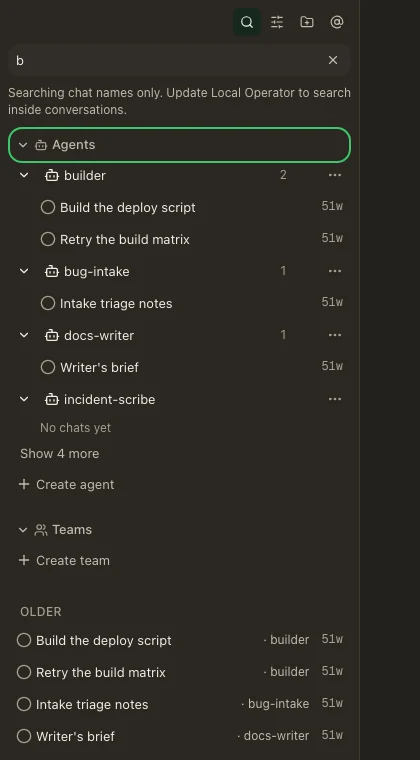
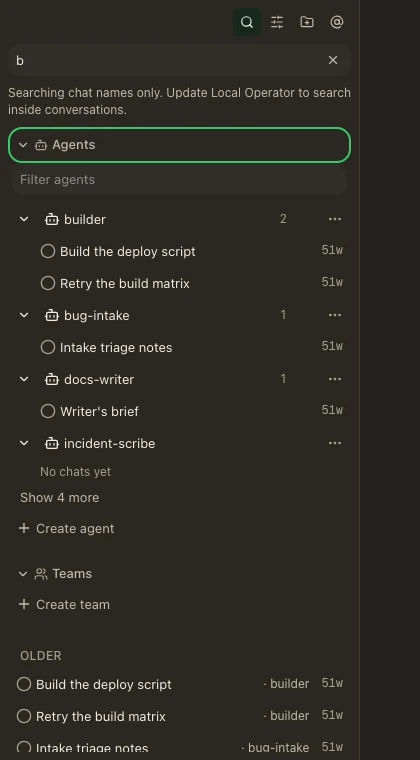
docs(evidence): re-shoot the cap's query-forced press on the fixed tree (#765)
The round-2 pair `cap/list-query-resting`/`cap/list-query-pressed` was the
DEFECT's picture: its entry asserted `expectGone`, written to fail the moment the
field stopped disappearing. The round-3 fix landed, so the assertion flips to
`expectPresent` and the pair, its geometry record and this set's notes are
re-taken together rather than re-checked.

WHAT THE NEW FRAMES AND `harness/cap-geometry-branch.json` SHOW, read out of the
live DOM on the folded tip `4f9ebb871`: the list-query-only press leaves
`Filter agents` drawn, the section box at 413px (was 369px - the field's own
44px) and every boundary below it where it was (Teams heading top 560 -> 560,
rows 4 -> 4); the same holds under a REAL pointer press, so the claim does not
rest on the instrument's synthetic click; the query+filter arm still keeps the
field; and the filter-only arm still closes the section (0 rows), which is the
case the gate must not spare. The hint text recorded in the same run is the
round-3 wording.

RIG: one `storybook dev` from this worktree on loopback :6071 (the static build
still refuses the story chunk on this host), one capturer invocation
(`--dirs=cap/list-query-pressed`, both palettes), one `measure.mjs` run, all
headless; reaped by exact pid in the same command - port verified closed.
Readings before/during: free 35913 -> 35878 -> 36563 MiB on
`/System/Volumes/Data`; swap total 9216.00 MiB on every read and `/var/vm/`
holding only `sleepimage`, so the swap-growth abort never armed.
[…]

diff --git a/docs/evidence/chat-sidebar-agents/cap/README.md b/docs/evidence/chat-sidebar-agents/cap/README.md
@@ -11,7 +11,9 @@ operator's.
 This directory is the rendered half of that claim: what the affordance looks
 like at each state, on both trees, with the numbers behind it. It was re-shot for
 the design re-check on the remediation head, which also added the query-forced
-states the first round had no frame for.
+states the first round had no frame for; the query-forced PRESSED pair was re-taken
+once more when the round-3 fix landed, because its pre-fix assertion
+(`expectGone`) was written to fail the moment the defect closed.
 
 ## What produced these frames
 
@@ -64,7 +66,7 @@ photographed in both palettes at all.
 | `reopened/` | the foot press, then the section heading twice (close, open): eight rows and the foot back. | this branch |
 | `grown-again/` | the same three presses, then the foot a SECOND time: twelve rows again, which is the release not having disarmed the raise. | this branch |
 | `list-query-resting/` | a LIST query (`b`) in force, no section filter: four rows drawn by the query, the `Filter agents` field drawn by the cap-bound roster. | this branch |
-| `list-query-pressed/` | the same state, then the heading pressed — the press the panel documents as a no-op on the raised cap. **The field is gone and the section has moved up by the field's own height.** | this branch |
+| `list-query-pressed/` | the same state, then the heading pressed — the press the panel documents as a no-op on the raised cap. **The `Filter agents` field survives**, the section box is unmoved and every boundary below it stays put. | this branch |
 | `filter-query-resting/` | a LIST query (`b`) AND the section's own filter (`er`): two rows, the field drawn, with the reader's own question in it. | this branch |
 | `filter-query-pressed/` | the same state, then the heading pressed: **the field an already-filtering reader had on screen survives**, and nothing else moves. | this branch |
 | `baseline/grown/` | the same press on the pre-fix tree. **Byte-identical to `grown/`** — see below. | pre-fix |
@@ -117,9 +119,8 @@ it in the committed JSON):
 
 ### The reset's own name, and where it lives
 
-The grown heading carries `SECTION_GROWN_HINT` — *"Collapse to restore the
-compact list; reopening draws the compact list again"* — and the harness reads it
-per state rather than inferring it:
+The grown heading carries `SECTION_GROWN_HINT` — *"Collapse, then reopen, to restore the
+compact list"* — and the harness reads it per state rather than inferring it:
 
 | state | heading `title` | `aria-describedby` → text |
 | --- | --- | --- |
@@ -140,7 +141,7 @@ against a 16-row cap leave no foot while grown.
 The foot's own accessible name is read the same way: `Show 4 more agents` at
 rest, `aria-label` and `title` both, which is round 1's N1 closed.
 
-### The query-forced press (round 1's U2), re-measured
+### The query-forced press (round 1's U2), re-measured after the fix
 
 Three sequences, each driven in the live DOM with the sidebar query, the
 section's own filter, or both, then the heading pressed. The harness presses the
@@ -151,32 +152,37 @@ give the same answer.
 
 | sequence | rows before → after | section box before → after | `Filter agents` before → after |
 | --- | --- | --- | --- |
-| LIST query only (`b`) | 4 → 4 | 413px → **369px** | present → **absent** |
+| LIST query only (`b`) | 4 → 4 | 413px → **413px** | present → **present** |
 | LIST query (`b`) + section filter (`er`) | 2 → 2 | 264px → 264px | present → **present** |
 | section filter only (`er`) | 4 → 0 | 232px → 28px | present → absent |
 
+- **The first row is the repro, and it is closed.** Round 1 photographed this
+  press taking the field away and moving the section up by exactly the field's own
+  height (**−44px**, box 413px → 369px) with the rows and the chevron untouched.
+  At this head the press leaves the field, the box and every boundary below it
+  where they were (Teams heading top 560 → 560, `chatsTop` 644 → 644). The gate
+  now reads the section BODY's own term — `isOpen("agents", true) || query !== ""`
+  — so a query that keeps the body drawn keeps its control. That pre-fix reading
+  lives in this file's history (the previous revision of
+  `harness/cap-geometry-branch.json`, which this pass replaced in place) rather than
+  beside the fixed one, because both are the same instrument at the same story.
+- `list-query-resting/` and `list-query-pressed/` are the pair, and the entry
+  `cap/list-query-pressed` asserts `expectPresent` on the field, so the frame
+  cannot silently regress back into the defect's picture a second time.
+- The middle row is the conjunction the round-2 remedy named
+  (`query !== "" && rosterFilter.trim() !== ""`), and the field survives the press
+  there too: `filter-query-resting/` and `filter-query-pressed/` are that pair.
 - The third row is not a defect: with no list query the press really does close
-  the section (0 rows, 28px, `aria-expanded` false), so a filter field leaving
-  with the list it filters is correct.
-- **The first row is the defect round 1 photographed, and it is still there on
-  this head.** The press the panel documents as a no-op removes the field and
-  moves the section up by exactly the field's own height, **−44px**, with the rows
-  and the chevron untouched. `list-query-resting/` and `list-query-pressed/` are
-  that measurement's two frames.
-- The middle row is the state the remedy's gate actually names
-  (`query !== "" && rosterFilter.trim() !== ""`), and there the field survives:
-  `filter-query-resting/` and `filter-query-pressed/` are that pair.
-- **So the remedy covers the conjunction, not the state the finding measured.**
-  Recorded in the PR thread as a `D`-finding rather than as a passing round; the
-  minimal change that satisfies it is the section-body term the remedy's own note
-  already names (`isOpen("agents", true) || query !== ""`), whose second clause
-  would keep the field limited to a cap-bound roster or an applied filter.
-- **`list-query-pressed/` is a picture of the PRE-FIX state, and its entry says
-  so**: `cap/list-query-pressed` asserts `expectGone: 'input[aria-label="Filter
-  agents"]'`, which is the truth on this head and is written to FAIL the moment
-  the defect is fixed. The fix round flips that assertion to `expectPresent`
-  (and `filter-query-pressed/` keeps the pair for the conjunction), and these two
-  frames are re-taken then — the stills and the numbers move together.
+  the section (0 rows, 28px, `aria-expanded` false), so a filter field leaving with
+  the list it filters is correct. It is the case the gate must NOT spare, and it is
+  pinned behaviourally in `scripts/chat-sidebar-view.test.mjs` beside the repro.
+
+Round 3's finding (`U2`, agent review `R3-1` and QA `Q3-2`) was that the round-2
+remedy was INERT in this first row: its clause held the field only when the reader
+had typed the section's own filter, and the repro is a list query with no section
+filter. What closes it is the body's own term, and the suite now drives the press
+rather than matching the gate's source text — a source-string pin stayed green over
+that inert clause, which is why the defect survived a round.
 
 ### Where the keyboard goes
 
